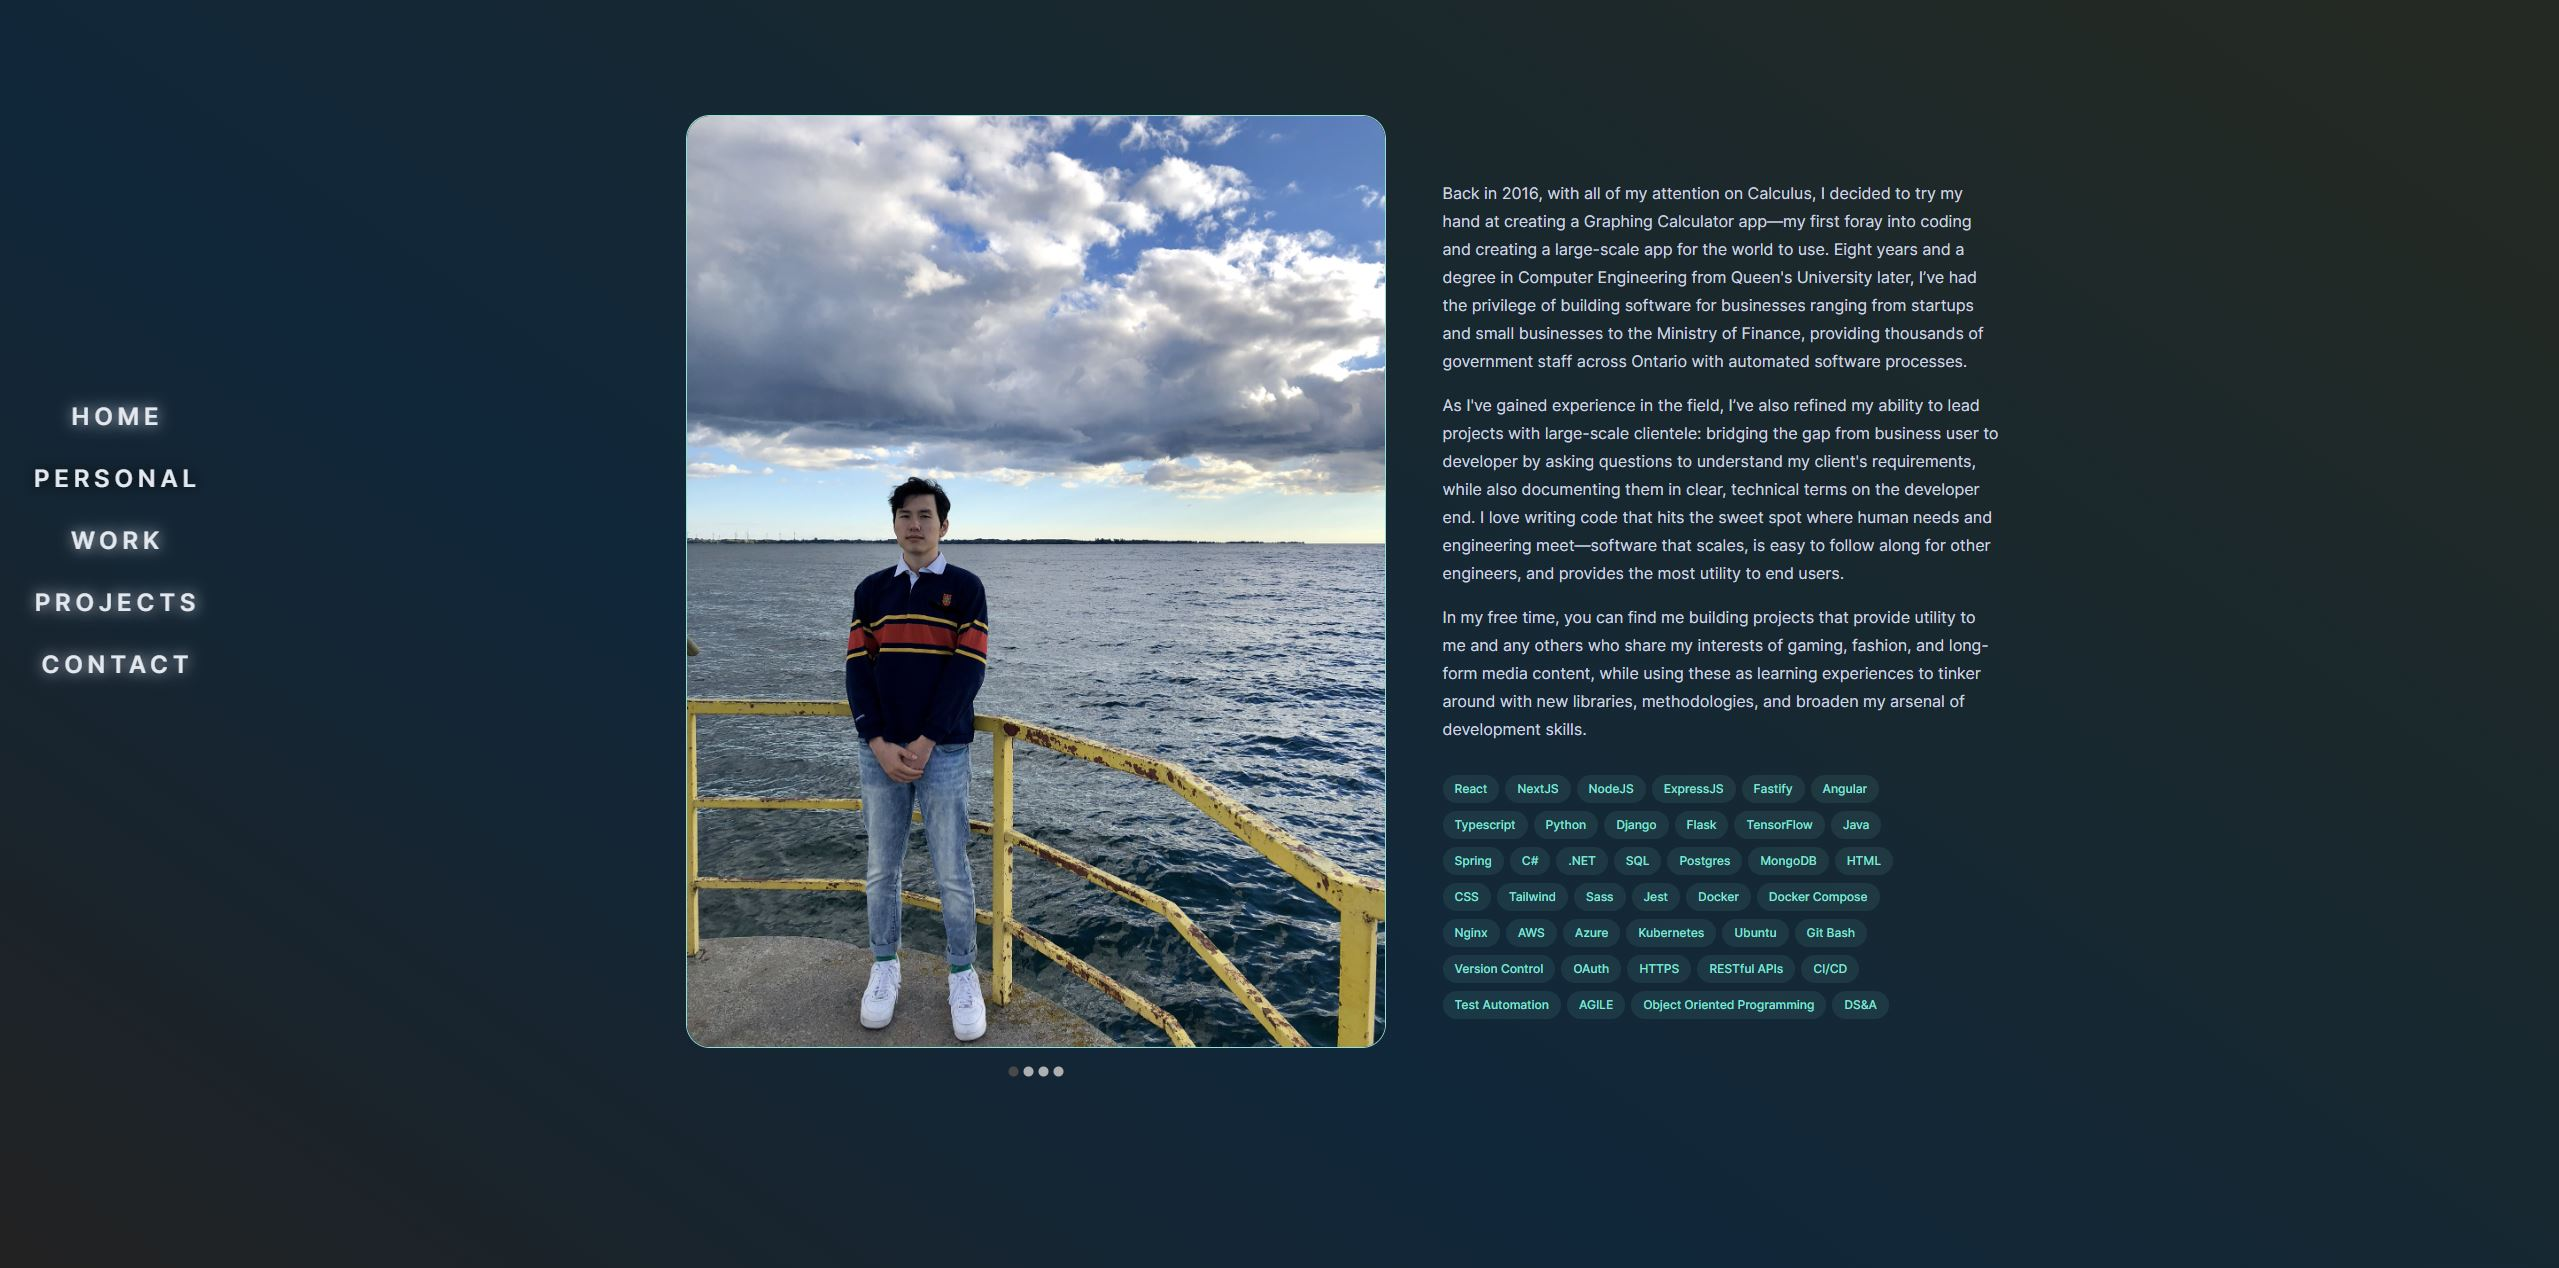
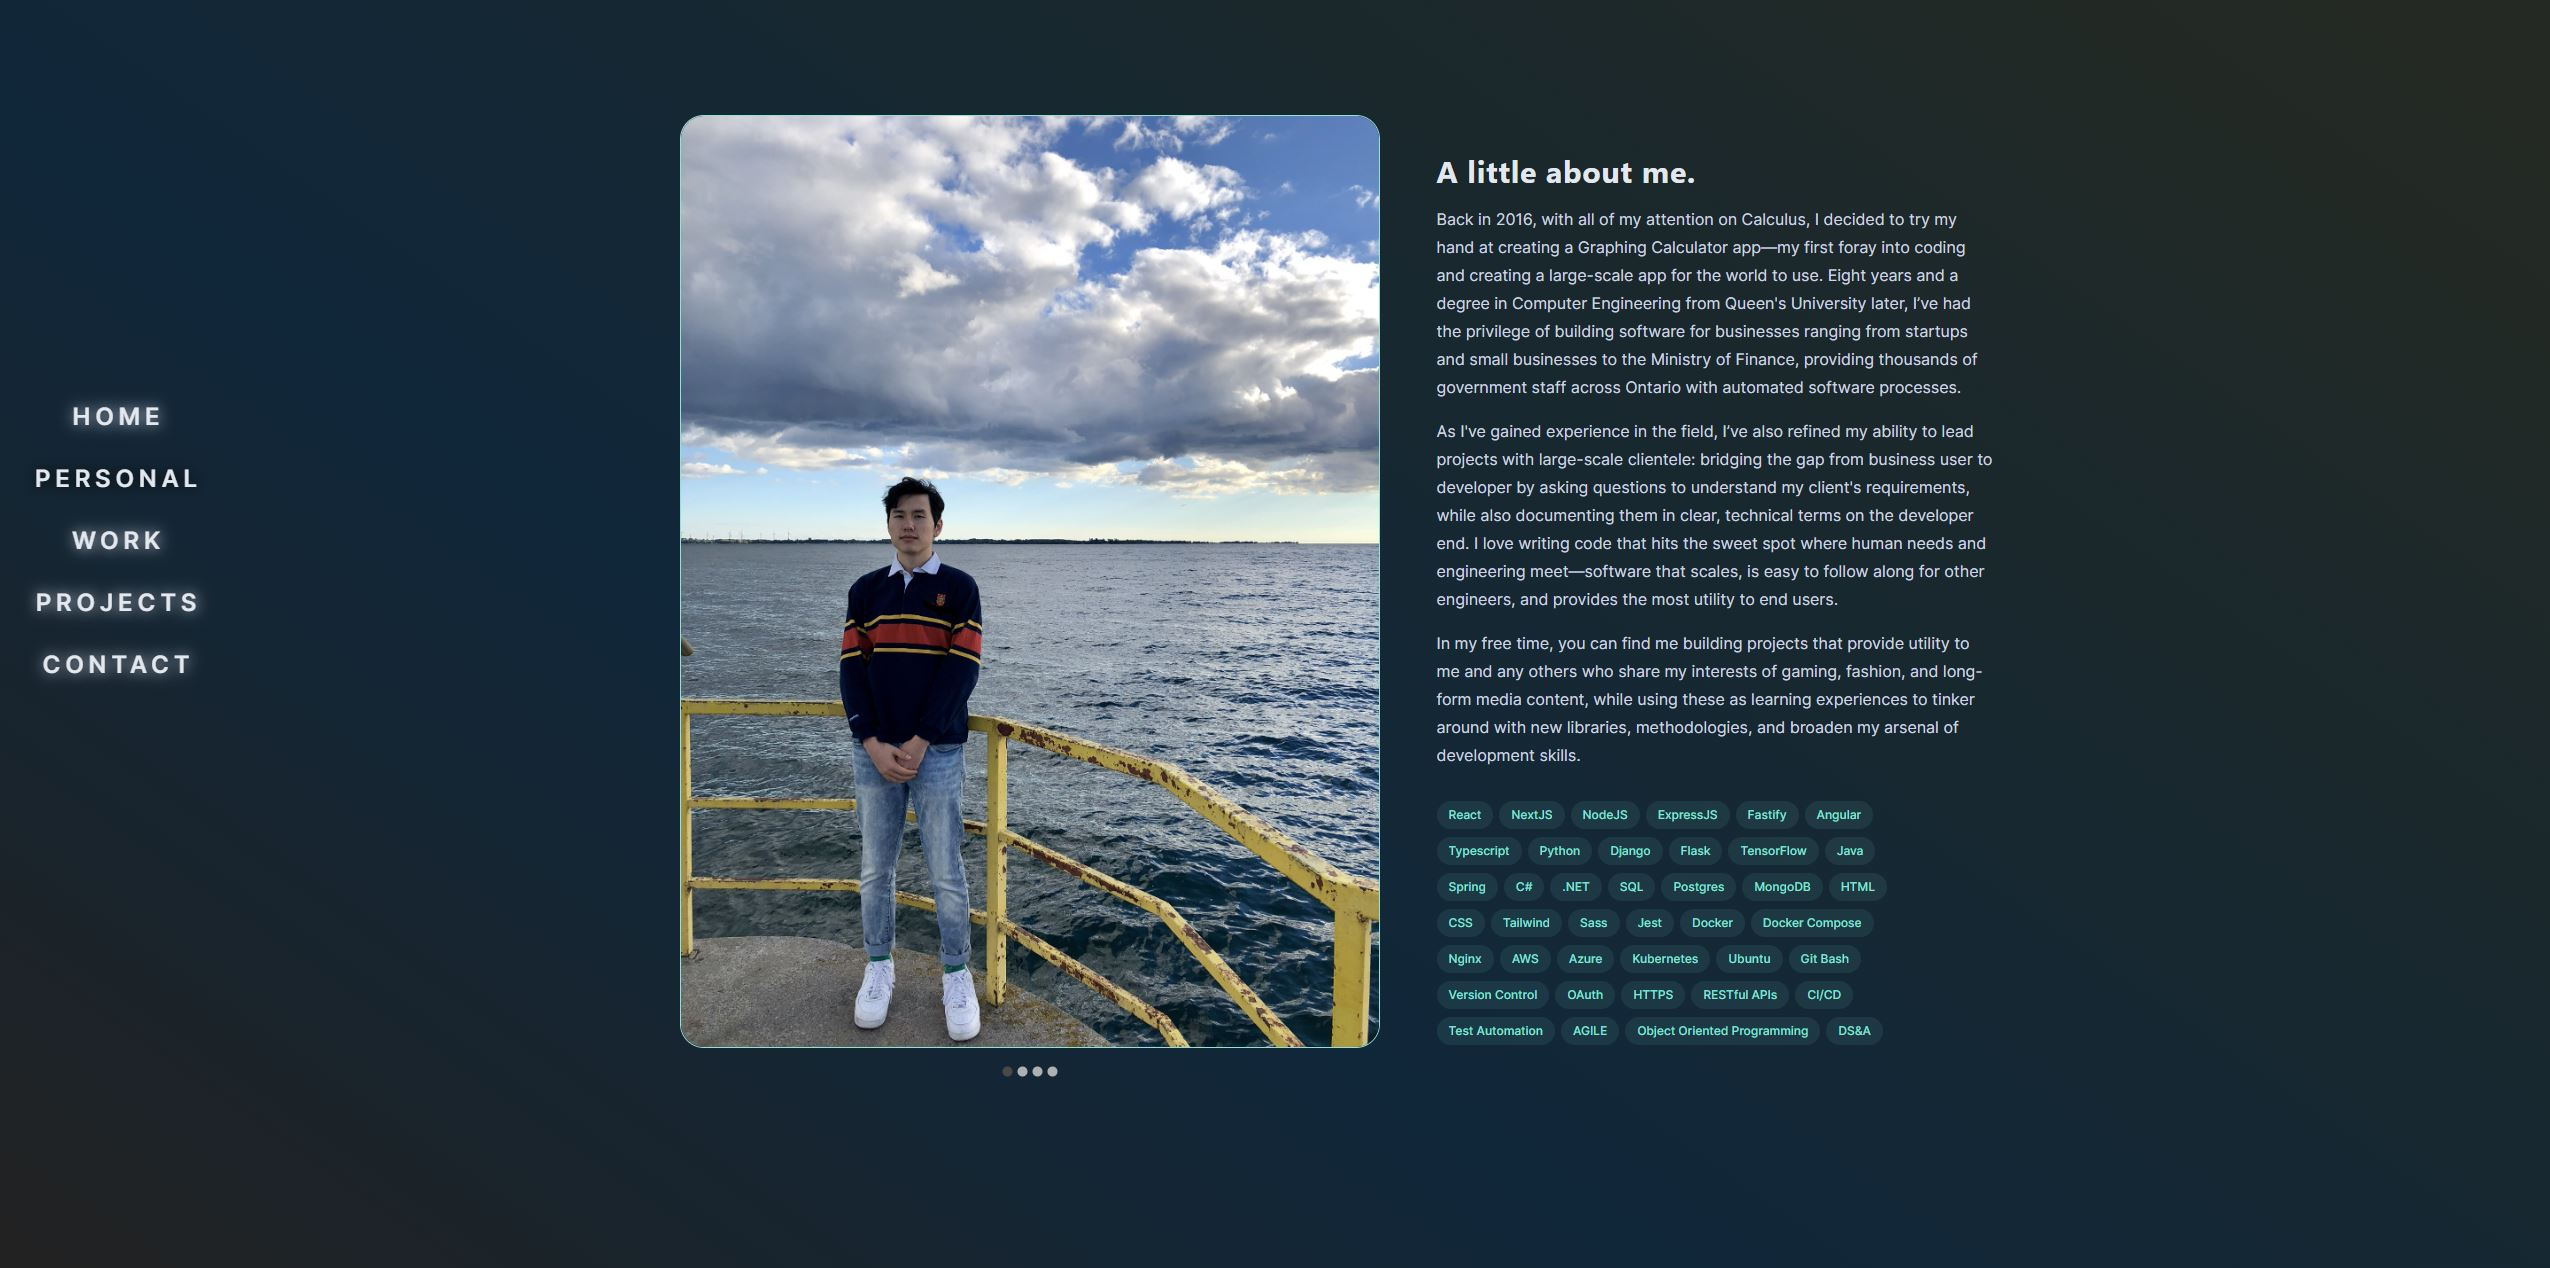
update footer link, and add heading in about section

diff --git a/src/Components/About.tsx b/src/Components/About.tsx
@@ -1,7 +1,6 @@
 /* eslint-disable @next/next/no-img-element */
 'use client'
 import React from 'react'
-import Image from 'next/image'
 import { useSectionInView } from '@/hooks/sectionscroll'
 import { aboutData, aboutImages, skillsData } from '@/content/textdata'
 import Carousel from 'react-material-ui-carousel'
@@ -14,22 +13,17 @@ const About = () => {
 	return (
 		<section ref={ref} id='about' className='min-h-[125vh] w-auto pt-24 text-center ml-36 background-gradient-sec'>
 			<div className='flex flex-col'>
-				{/* <h2 className='text-transparent tracking-tight text-6xl font-extrabold mb-10'>About Me</h2> */}
 				<div className='flex flex-row items-start justify-normal gap-x-10 max-w-[1920px] about-sec'>
-					{/* <Image className='rounded-3xl mr-[-10rem]' src='/about/6.png' alt='Picture of Me!' width={600} height={500}/> */}
 					<Carousel NextIcon={<ArrowForwardIcon/>} PrevIcon={<ArrowBackIcon/>} stopAutoPlayOnHover={true} interval={10000} animation={'fade'} className='about-carousel ml-0 w-3xl'>
 						{aboutImages.map((screenshot: string, index: number) => (
 							<img key={index} className='image-carousel border border-teal-300 rounded-3xl about-img' src={screenshot} alt='Pic of Me!' />
 						))}
 					</Carousel>
 					<div className='flex flex-col justify-center items-start gap-y-20 max-w-3xl my-auto p-4 border border-transparent hover:border rounded-3xl hover:bg-indigo-900/20'>
-						{/* <h2 className='text-3xl text-slate-200 font-extrabold -mb-12 tracking-wide font-sans'>Hey, I'm Allen T.</h2> */}
+						<h2 className='text-3xl text-slate-200 font-bold -mb-16 tracking-wide font-sans'>A little about me.</h2>
 						<div className='w-full min-w-64'>
 							{aboutData.map((item: AboutDtl, index: number) => (
 								<div className='flex flex-col mb-4' key={index}>
-									{/* <h2 className='text-slate-300 text-5xl font-extrabold text-nowrap'>
-										{item.heading}
-									</h2> */}
 									<p className='text-md text-slate-300 leading-7 w-[560px] flex-wrap text-left'>
 										{item.details}
 									</p>
@@ -37,16 +31,6 @@ const About = () => {
 							))}
 						</div>
 						<div className='flex flex-col justify-center items-center mt-[-5rem] w-[460px]'>
-							{/* <h2 className='text-slate-300 text-5xl font-extrabold text-nowrap mb-8'>
-								Development Skills
-							</h2>
-							<div className='flex flex-row flex-wrap justify-center w-[420px] max-h-[180px]'>
-								{skillsData.map((skill: string, index: number) => (
-									<div key={index} className='px-2 py-3 mx-[0.375rem] my-1 text-xl rounded-[5px] font-bold text-slate-800 max-h-[80px] bg-slate-300'>
-										{skill}
-									</div>
-								))}
-							</div> */}
 							<ul className='mt-2 flex flex-wrap'>
 								{skillsData.map((skill: string, index: number) => (
 									<li className='mr-1.5 mt-2' key={index}>
@@ -58,7 +42,6 @@ const About = () => {
 							</ul>
 						</div>
 					</div>
-					{/* <Image className='rounded-3xl' src='/about/5.jpg' alt='Picture of Me!' width={800} height={500}/> */}
 				</div>
 			</div>
 		</section>

diff --git a/src/Components/Footer.tsx b/src/Components/Footer.tsx
@@ -19,7 +19,7 @@ const Footer = () => {
 				background: 'linear-gradient(69.5deg, rgb(40, 48, 68) 2.3%, rgb(1, 179, 201) 97.6%)'
 			}}>
 				{'Copyright © '}
-				<Link target='_blank' rel='noopener noreferrer' href='https://github.com/allthetok' className='git-link'>
+				<Link target='_blank' rel='noopener noreferrer' href='https://github.com/allthetok/portfolio' className='git-link'>
 					<LinkIcon sx={{
 						verticalAlign: 'bottom',
 						'&hover': {

diff --git a/dist/output.css b/dist/output.css
@@ -740,6 +740,14 @@ video {
   margin-top: 1.5rem;
 }
 
+.-mb-20 {
+  margin-bottom: -5rem;
+}
+
+.-mb-16 {
+  margin-bottom: -4rem;
+}
+
 .inline-block {
   display: inline-block;
 }
